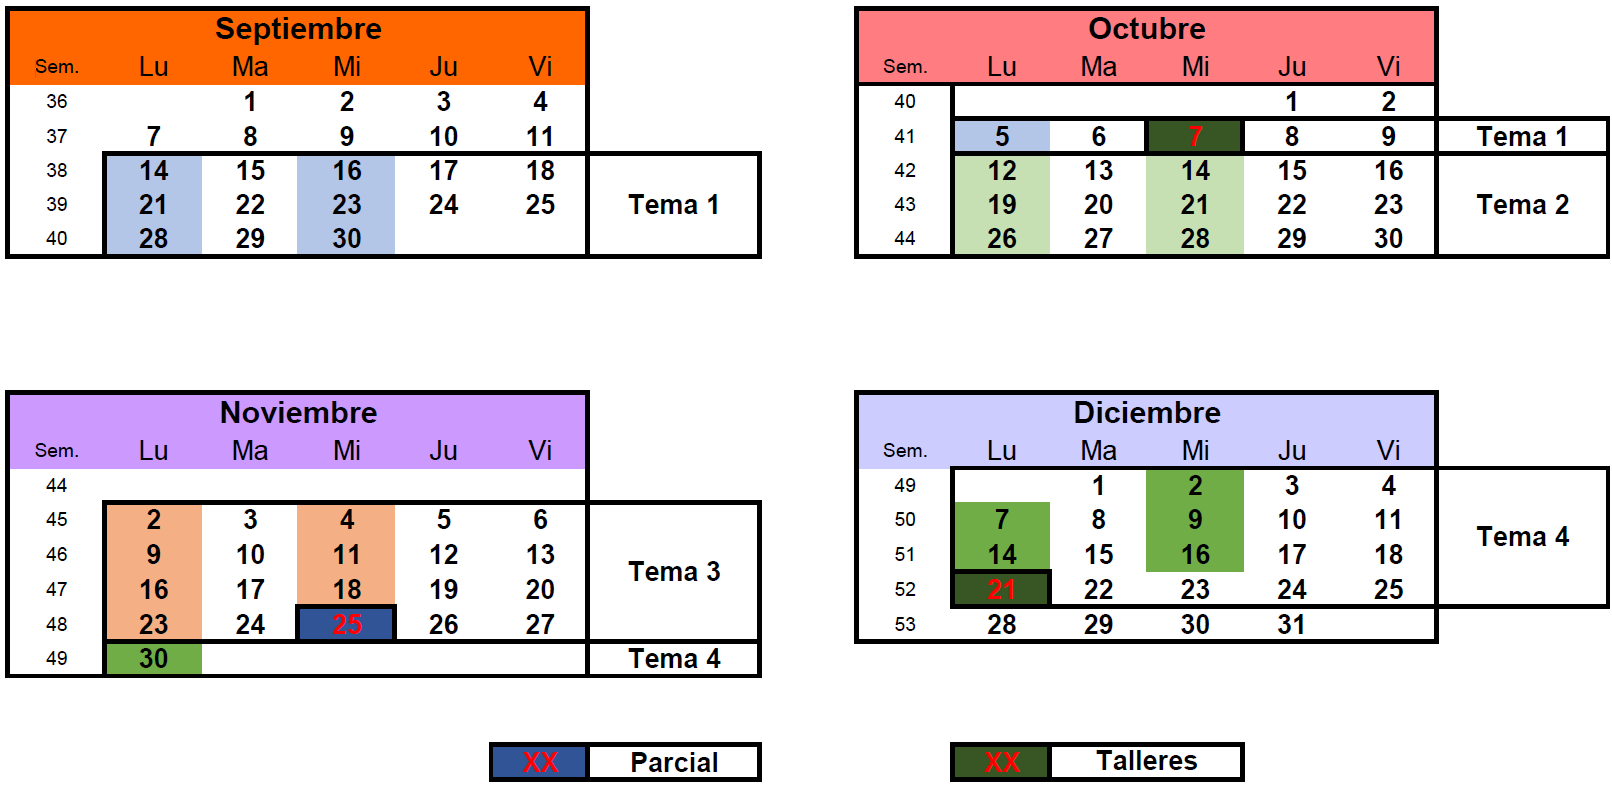
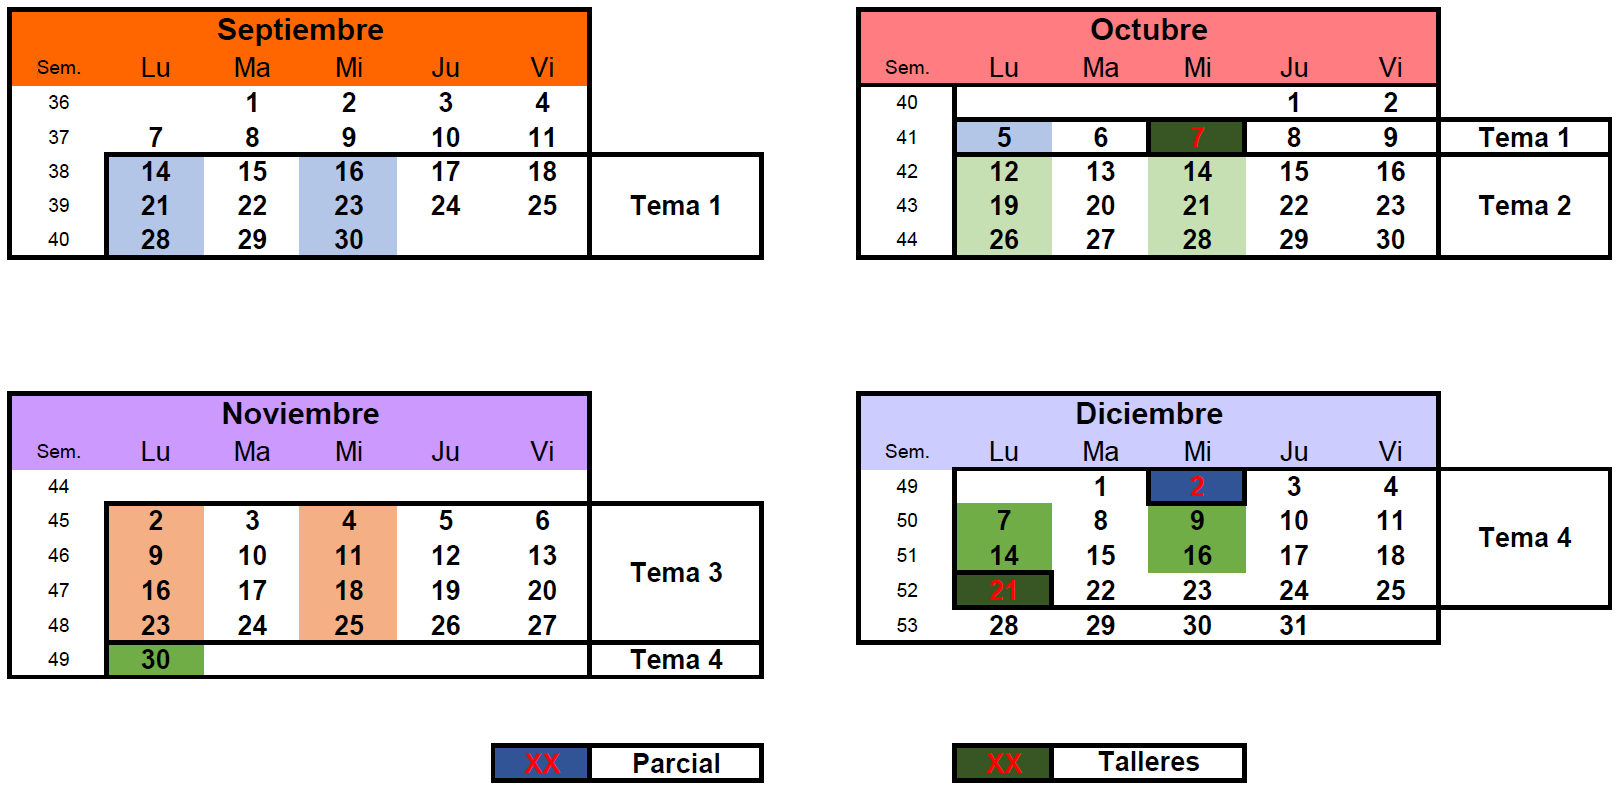
Built site for gh-pages

diff --git a/es/contenido/tema1.html b/es/contenido/tema1.html
@@ -2371,6 +2371,7 @@ mail.uib.es:25: 4 fallos de 20</code></pre>
 </section>
 <section id="avisar-y-almacenar-notificador-y-repositorioresultados" class="level4">
 <h4 class="anchored" data-anchor-id="avisar-y-almacenar-notificador-y-repositorioresultados"><strong>Avisar y almacenar: <code>Notificador</code> y <code>RepositorioResultados</code></strong></h4>
+<p><code>Notificador</code> es quien hace llegar la alerta a una persona. Su método no devuelve nada: notificar es un <strong>efecto</strong> sobre el mundo exterior —la consola, un servidor de correo, el móvil del cliente—, y lo único que varía de un notificador a otro es el medio. De ahí que sea <code>@FunctionalInterface</code>: el contrato es una única operación, y eso es lo que lo hace fácil de sustituir y de duplicar en una prueba.</p>
 <div class="code-copy-outer-scaffold"><div class="sourceCode" id="cb44"><pre class="sourceCode java code-with-copy"><code class="sourceCode java"><span id="cb44-1"><a href="#cb44-1" aria-hidden="true" tabindex="-1"></a><span class="co">// Notificador.java</span></span>
 <span id="cb44-2"><a href="#cb44-2" aria-hidden="true" tabindex="-1"></a><span class="kw">package</span><span class="im"> es</span><span class="op">.</span><span class="im">uib</span><span class="op">.</span><span class="im">prgava</span><span class="op">.</span><span class="im">tema1</span><span class="op">.</span><span class="im">monitor</span><span class="op">;</span></span>
 <span id="cb44-3"><a href="#cb44-3" aria-hidden="true" tabindex="-1"></a></span>
@@ -2378,6 +2379,7 @@ mail.uib.es:25: 4 fallos de 20</code></pre>
 <span id="cb44-5"><a href="#cb44-5" aria-hidden="true" tabindex="-1"></a><span class="kw">public</span> <span class="kw">interface</span> Notificador <span class="op">{</span></span>
 <span id="cb44-6"><a href="#cb44-6" aria-hidden="true" tabindex="-1"></a>    <span class="dt">void</span> <span class="fu">notificar</span><span class="op">(</span>Alerta alerta<span class="op">);</span></span>
 <span id="cb44-7"><a href="#cb44-7" aria-hidden="true" tabindex="-1"></a><span class="op">}</span></span></code></pre></div><button title="Copiar al portapapeles" class="code-copy-button"><i class="bi"></i></button></div>
+<p><code>RepositorioResultados</code> es la memoria del monitor: guarda cada resultado según se produce y <strong>devuelve el historial de un servicio</strong> cuando alguien lo pide. Es la pieza que convierte observaciones sueltas e irrepetibles en datos consultables, y sin ella la política no tendría con qué decidir, porque decidir consiste precisamente en mirar el pasado. Lo que varía aquí no es el medio sino el <strong>soporte</strong>: hoy será una lista en memoria, y en el Tema 4 una base de datos, sin que nada más del programa se entere.</p>
 <div class="code-copy-outer-scaffold"><div class="sourceCode" id="cb45"><pre class="sourceCode java code-with-copy"><code class="sourceCode java"><span id="cb45-1"><a href="#cb45-1" aria-hidden="true" tabindex="-1"></a><span class="co">// RepositorioResultados.java (primera versión; la refinaremos con el principio I)</span></span>
 <span id="cb45-2"><a href="#cb45-2" aria-hidden="true" tabindex="-1"></a><span class="kw">package</span><span class="im"> es</span><span class="op">.</span><span class="im">uib</span><span class="op">.</span><span class="im">prgava</span><span class="op">.</span><span class="im">tema1</span><span class="op">.</span><span class="im">monitor</span><span class="op">;</span></span>
 <span id="cb45-3"><a href="#cb45-3" aria-hidden="true" tabindex="-1"></a></span>
@@ -2458,7 +2460,7 @@ Error Frecuente&nbsp;4: La clase que lo sabe todo
 <p>Las entidades de software deben estar abiertas a la extensión pero cerradas a la modificación.</p>
 </blockquote>
 <p>Formulado por Meyer <span class="citation" data-cites="meyer1997">(<a href="#ref-meyer1997" role="doc-biblioref">Meyer 1997</a>)</span>, suena contradictorio hasta que se entiende el mecanismo: se consigue con <strong>abstracción y polimorfismo</strong>. Si <code>Monitor</code> depende de la interfaz <code>PoliticaDeAlerta</code>, puedes extender el sistema con políticas nuevas (abierto a extensión) sin tocar <code>Monitor</code> (cerrado a modificación).</p>
-<p>El ejemplo canónico de violación es la cadena de <code>if</code> sobre el tipo:</p>
+<p>El ejemplo canónico de violación de este principio es la cadena de <code>if</code> sobre el tipo:</p>
 <div class="code-copy-outer-scaffold"><div class="sourceCode" id="cb48"><pre class="sourceCode java code-with-copy"><code class="sourceCode java"><span id="cb48-1"><a href="#cb48-1" aria-hidden="true" tabindex="-1"></a><span class="co">// Fragmento: cerrado a la extensión</span></span>
 <span id="cb48-2"><a href="#cb48-2" aria-hidden="true" tabindex="-1"></a><span class="dt">static</span> <span class="dt">double</span> <span class="fu">area</span><span class="op">(</span><span class="bu">Object</span> figura<span class="op">)</span> <span class="op">{</span></span>
 <span id="cb48-3"><a href="#cb48-3" aria-hidden="true" tabindex="-1"></a>    <span class="cf">if</span> <span class="op">(</span>figura <span class="kw">instanceof</span> Circulo c<span class="op">)</span> <span class="cf">return</span> <span class="bu">Math</span><span class="op">.</span><span class="fu">PI</span> <span class="op">*</span> c<span class="op">.</span><span class="fu">radio</span><span class="op">()</span> <span class="op">*</span> c<span class="op">.</span><span class="fu">radio</span><span class="op">();</span></span>
@@ -2469,7 +2471,8 @@ Error Frecuente&nbsp;4: La clase que lo sabe todo
 </section>
 <section id="diferentes-políticas-de-alerta-en-monitor" class="level4">
 <h4 class="anchored" data-anchor-id="diferentes-políticas-de-alerta-en-monitor"><strong>Diferentes políticas de alerta en <code>Monitor</code></strong></h4>
-<p>En el monitor (<a href="#nte-ejemplo-unificador" class="quarto-xref">ejemplo&nbsp;1</a>) las políticas de alerta son el caso perfecto. Tres implementaciones de políticas de alerta en las clases <code>FalloSimple</code>, <code>FallosConsecutivos</code> y <code>LatenciaExcesiva</code> a continuación:</p>
+<p>En el monitor (<a href="#nte-ejemplo-unificador" class="quarto-xref">ejemplo&nbsp;1</a>) las políticas de alerta son el caso perfecto. Tenemos tres implementaciones de políticas de alerta en las clases <code>FalloSimple</code>, <code>FallosConsecutivos</code> y <code>LatenciaExcesiva</code> a continuación.</p>
+<p><strong><code>FalloSimple</code></strong> — La política más literal: avisa si la <strong>última</strong> comprobación fue un fallo. No mira hacia atrás ni guarda nada; le basta con el final de la lista. Es la que el COO descartó en el encargo —«no quiero un aviso por cada fallo suelto»—, y está aquí por dos motivos: sirve de punto de comparación, y en las pruebas es la que permite provocar una alerta con un solo resultado.</p>
 <div class="code-copy-outer-scaffold"><div class="sourceCode" id="cb49"><pre class="sourceCode java code-with-copy"><code class="sourceCode java"><span id="cb49-1"><a href="#cb49-1" aria-hidden="true" tabindex="-1"></a><span class="co">// FalloSimple.java</span></span>
 <span id="cb49-2"><a href="#cb49-2" aria-hidden="true" tabindex="-1"></a><span class="kw">package</span><span class="im"> es</span><span class="op">.</span><span class="im">uib</span><span class="op">.</span><span class="im">prgava</span><span class="op">.</span><span class="im">tema1</span><span class="op">.</span><span class="im">monitor</span><span class="op">;</span></span>
 <span id="cb49-3"><a href="#cb49-3" aria-hidden="true" tabindex="-1"></a></span>
@@ -2484,6 +2487,7 @@ Error Frecuente&nbsp;4: La clase que lo sabe todo
 <span id="cb49-12"><a href="#cb49-12" aria-hidden="true" tabindex="-1"></a>    <span class="at">@Override</span></span>
 <span id="cb49-13"><a href="#cb49-13" aria-hidden="true" tabindex="-1"></a>    <span class="kw">public</span> <span class="bu">String</span> <span class="fu">toString</span><span class="op">()</span> <span class="op">{</span> <span class="cf">return</span> <span class="st">"fallo simple"</span><span class="op">;</span> <span class="op">}</span></span>
 <span id="cb49-14"><a href="#cb49-14" aria-hidden="true" tabindex="-1"></a><span class="op">}</span></span></code></pre></div><button title="Copiar al portapapeles" class="code-copy-button"><i class="bi"></i></button></div>
+<p><strong><code>FallosConsecutivos</code></strong> — La que responde al encargo: avisa cuando los <code>minimo</code> últimos resultados son todos fallo. El número se fija al construirla, así que «dos fallos seguidos» y «tres fallos seguidos» no son dos clases sino dos objetos de la misma; pasar de una a otra no exige escribir código, solo cambiar la línea que la construye. Fíjate en el bucle: recorre hacia atrás y un solo resultado correcto rompe la racha y decide la respuesta. Y fíjate también en el <code>if</code> inicial, que responde <code>false</code> mientras no haya bastantes datos: así el monitor puede preguntar desde la primera ronda sin tener que saber cuántas hacen falta.</p>
 <div class="code-copy-outer-scaffold"><div class="sourceCode" id="cb50"><pre class="sourceCode java code-with-copy"><code class="sourceCode java"><span id="cb50-1"><a href="#cb50-1" aria-hidden="true" tabindex="-1"></a><span class="co">// FallosConsecutivos.java</span></span>
 <span id="cb50-2"><a href="#cb50-2" aria-hidden="true" tabindex="-1"></a><span class="kw">package</span><span class="im"> es</span><span class="op">.</span><span class="im">uib</span><span class="op">.</span><span class="im">prgava</span><span class="op">.</span><span class="im">tema1</span><span class="op">.</span><span class="im">monitor</span><span class="op">;</span></span>
 <span id="cb50-3"><a href="#cb50-3" aria-hidden="true" tabindex="-1"></a></span>
@@ -2509,6 +2513,7 @@ Error Frecuente&nbsp;4: La clase que lo sabe todo
 <span id="cb50-23"><a href="#cb50-23" aria-hidden="true" tabindex="-1"></a>    <span class="at">@Override</span></span>
 <span id="cb50-24"><a href="#cb50-24" aria-hidden="true" tabindex="-1"></a>    <span class="kw">public</span> <span class="bu">String</span> <span class="fu">toString</span><span class="op">()</span> <span class="op">{</span> <span class="cf">return</span> minimo <span class="op">+</span> <span class="st">" fallos consecutivos"</span><span class="op">;</span> <span class="op">}</span></span>
 <span id="cb50-25"><a href="#cb50-25" aria-hidden="true" tabindex="-1"></a><span class="op">}</span></span></code></pre></div><button title="Copiar al portapapeles" class="code-copy-button"><i class="bi"></i></button></div>
+<p><strong><code>LatenciaExcesiva</code></strong> — La tercera cambia de eje: aquí el fallo no es que el servicio no responda, sino que responda <strong>mal</strong>. Promedia la latencia de las últimas <code>muestras</code> comprobaciones y avisa si supera el umbral. Un servicio que atiende todas las peticiones pero tarda tres segundos no produce ni un solo <code>CAIDO</code>, y las dos políticas anteriores lo dan por sano; esta lo detecta. Observa que descarta los fallos antes de promediar: un <code>CAIDO</code> guarda latencia cero, y contarla hundiría la media hasta hacer invisible justo la degradación que se busca.</p>
 <div class="code-copy-outer-scaffold"><div class="sourceCode" id="cb51"><pre class="sourceCode java code-with-copy"><code class="sourceCode java"><span id="cb51-1"><a href="#cb51-1" aria-hidden="true" tabindex="-1"></a><span class="co">// LatenciaExcesiva.java</span></span>
 <span id="cb51-2"><a href="#cb51-2" aria-hidden="true" tabindex="-1"></a><span class="kw">package</span><span class="im"> es</span><span class="op">.</span><span class="im">uib</span><span class="op">.</span><span class="im">prgava</span><span class="op">.</span><span class="im">tema1</span><span class="op">.</span><span class="im">monitor</span><span class="op">;</span></span>
 <span id="cb51-3"><a href="#cb51-3" aria-hidden="true" tabindex="-1"></a></span>
@@ -2542,7 +2547,8 @@ Error Frecuente&nbsp;4: La clase que lo sabe todo
 <span id="cb51-31"><a href="#cb51-31" aria-hidden="true" tabindex="-1"></a>    <span class="at">@Override</span></span>
 <span id="cb51-32"><a href="#cb51-32" aria-hidden="true" tabindex="-1"></a>    <span class="kw">public</span> <span class="bu">String</span> <span class="fu">toString</span><span class="op">()</span> <span class="op">{</span> <span class="cf">return</span> <span class="st">"latencia media &gt; "</span> <span class="op">+</span> umbral<span class="op">.</span><span class="fu">toMillis</span><span class="op">()</span> <span class="op">+</span> <span class="st">" ms"</span><span class="op">;</span> <span class="op">}</span></span>
 <span id="cb51-33"><a href="#cb51-33" aria-hidden="true" tabindex="-1"></a><span class="op">}</span></span></code></pre></div><button title="Copiar al portapapeles" class="code-copy-button"><i class="bi"></i></button></div>
-<p>Ninguna de las tres exige cambiar <code>Monitor</code>, y la cuarta tampoco lo exigirá. Esta estructura (una interfaz con un método y varias implementaciones intercambiables) tiene nombre propio: es el patrón <strong>Strategy</strong>, y lo formalizaremos más adelante.</p>
+<p>Las tres comparten un supuesto que conviene hacer explícito: la lista que reciben es el historial de <strong>un solo servicio</strong>, ordenado de lo más antiguo a lo más reciente. Ninguna la filtra, porque de eso se encarga el repositorio al devolverla; por eso <code>FallosConsecutivos</code> puede mirar directamente las últimas entradas y <code>LatenciaExcesiva</code> promediar sin preguntar de quién es cada resultado.</p>
+<p>Ninguna de las tres exige cambiar <code>Monitor</code>, y la cuarta que se nos ocurra crear tampoco lo exigirá. Esta estructura (una interfaz con un método y varias implementaciones intercambiables) tiene nombre propio: es el patrón <strong>Strategy</strong>, y lo formalizaremos más adelante.</p>
 <div class="ampliacion">
 <div id="tip-problema-de-la-expresion" class="callout callout-style-default callout-tip no-icon callout-titled" title="Abierto/cerrado y polimorfismo: el problema de la expresión">
 <div class="callout-header d-flex align-content-center">
@@ -2617,7 +2623,8 @@ Error Frecuente&nbsp;5: Redefinir un método para que lance una excepción
 </blockquote>
 <p>Una interfaz grande acopla a todos sus clientes con todos sus métodos: si cambia un método que un cliente no usa, ese cliente puede verse obligado a recompilar, y cualquier implementación nueva debe implementar métodos que no tienen sentido para ella. El remedio es dividir las interfaces por <strong>rol</strong>, según lo que cada cliente necesita.</p>
 <p>Ejemplo breve: una interfaz <code>Impresora</code> con <code>imprimir</code>, <code>escanear</code> y <code>enviarFax</code> obliga a una impresora básica a «implementar» el fax lanzando excepciones (violación de L). Tres interfaces (<code>Impresora</code>, <code>Escaner</code>, <code>Fax</code>) permiten que cada dispositivo implemente solo las que cumple y que un cliente que solo imprime dependa solo de <code>Impresora</code>.</p>
-<p>En el monitor (<a href="#nte-ejemplo-unificador" class="quarto-xref">ejemplo&nbsp;1</a>) el repositorio tiene dos clientes con necesidades distintas: <code>Monitor</code> guarda y consulta el historial reciente; el generador de informes que escribiremos en 1.3 solo lee. Y en el Tema 4 querremos una implementación sobre base de datos donde la escritura y la lectura pueden tener distintos requisitos. Separamos los roles:</p>
+<p>En el monitor (<a href="#nte-ejemplo-unificador" class="quarto-xref">ejemplo&nbsp;1</a>) el repositorio tiene dos clientes con necesidades distintas: <code>Monitor</code> guarda y consulta el historial reciente; el generador de informes que escribiremos en 1.3 solo lee. Y en el Tema 4 querremos una implementación sobre base de datos donde la escritura y la lectura pueden tener distintos requisitos. Separamos los roles.</p>
+<p><strong><code>LectorResultados</code></strong> — El rol de <strong>consulta</strong>: el historial de un servicio y la lista de servicios de los que se sabe algo. Es todo lo que necesitan las políticas de alerta para decidir y el generador de informes para calcular, y ninguno de los dos guarda nada. Fíjate en que <code>historial</code> entrega los <strong>resultados de un solo servicio ya filtrados y en orden</strong>: es la firma que permite que las políticas se escriban sin buscar ni descartar nada. Aquí se emplea la interfaz <a href="https://docs.oracle.com/en/java/javase/25/docs/api/java.base/java/util/Set.html"><code>Set</code></a> del paquete <code>java.util</code> de Java, que representa un <strong>conjunto</strong>: elementos sin repetir y sin orden garantizado.</p>
 <div class="code-copy-outer-scaffold"><div class="sourceCode" id="cb54"><pre class="sourceCode java code-with-copy"><code class="sourceCode java"><span id="cb54-1"><a href="#cb54-1" aria-hidden="true" tabindex="-1"></a><span class="co">// LectorResultados.java</span></span>
 <span id="cb54-2"><a href="#cb54-2" aria-hidden="true" tabindex="-1"></a><span class="kw">package</span><span class="im"> es</span><span class="op">.</span><span class="im">uib</span><span class="op">.</span><span class="im">prgava</span><span class="op">.</span><span class="im">tema1</span><span class="op">.</span><span class="im">monitor</span><span class="op">;</span></span>
 <span id="cb54-3"><a href="#cb54-3" aria-hidden="true" tabindex="-1"></a></span>
@@ -2631,6 +2638,7 @@ Error Frecuente&nbsp;5: Redefinir un método para que lance una excepción
 <span id="cb54-11"><a href="#cb54-11" aria-hidden="true" tabindex="-1"></a>    <span class="co">/**</span> Servicios con al menos un resultado registrado<span class="co">. */</span></span>
 <span id="cb54-12"><a href="#cb54-12" aria-hidden="true" tabindex="-1"></a>    <span class="bu">Set</span><span class="op">&lt;</span>Servicio<span class="op">&gt;</span> <span class="fu">servicios</span><span class="op">();</span></span>
 <span id="cb54-13"><a href="#cb54-13" aria-hidden="true" tabindex="-1"></a><span class="op">}</span></span></code></pre></div><button title="Copiar al portapapeles" class="code-copy-button"><i class="bi"></i></button></div>
+<p><strong><code>EscritorResultados</code></strong> — El rol de <strong>registro</strong>, y consta de una sola operación: anotar un resultado recién observado. Eso es lo único que <code>Monitor</code> hace con el repositorio mientras sondea, y por ser un único método puede declararse <code>@FunctionalInterface</code> (cosa que la interfaz conjunta, con más de un método, no podía).</p>
 <div class="code-copy-outer-scaffold"><div class="sourceCode" id="cb55"><pre class="sourceCode java code-with-copy"><code class="sourceCode java"><span id="cb55-1"><a href="#cb55-1" aria-hidden="true" tabindex="-1"></a><span class="co">// EscritorResultados.java</span></span>
 <span id="cb55-2"><a href="#cb55-2" aria-hidden="true" tabindex="-1"></a><span class="kw">package</span><span class="im"> es</span><span class="op">.</span><span class="im">uib</span><span class="op">.</span><span class="im">prgava</span><span class="op">.</span><span class="im">tema1</span><span class="op">.</span><span class="im">monitor</span><span class="op">;</span></span>
 <span id="cb55-3"><a href="#cb55-3" aria-hidden="true" tabindex="-1"></a></span>
@@ -2638,13 +2646,13 @@ Error Frecuente&nbsp;5: Redefinir un método para que lance una excepción
 <span id="cb55-5"><a href="#cb55-5" aria-hidden="true" tabindex="-1"></a><span class="kw">public</span> <span class="kw">interface</span> EscritorResultados <span class="op">{</span></span>
 <span id="cb55-6"><a href="#cb55-6" aria-hidden="true" tabindex="-1"></a>    <span class="dt">void</span> <span class="fu">guardar</span><span class="op">(</span>Resultado resultado<span class="op">);</span></span>
 <span id="cb55-7"><a href="#cb55-7" aria-hidden="true" tabindex="-1"></a><span class="op">}</span></span></code></pre></div><button title="Copiar al portapapeles" class="code-copy-button"><i class="bi"></i></button></div>
+<p><strong><code>RepositorioResultados</code></strong> — No añade nada: es el nombre de quien cumple <strong>los dos</strong> roles a la vez, y la forma de dárselo a quien los necesita juntos (como <code>Monitor</code>) sin obligar a otros a cargar con ambos. Una interfaz puede heredar de varias, así que basta declararla como la suma de las otras dos y dejar el cuerpo vacío. Las implementaciones que ya existían no cambian ni una línea: la que implementaba el repositorio entero sigue cumpliéndolo, porque cumplir la suma es cumplir cada parte.</p>
 <div class="code-copy-outer-scaffold"><div class="sourceCode" id="cb56"><pre class="sourceCode java code-with-copy"><code class="sourceCode java"><span id="cb56-1"><a href="#cb56-1" aria-hidden="true" tabindex="-1"></a><span class="co">// RepositorioResultados.java</span></span>
 <span id="cb56-2"><a href="#cb56-2" aria-hidden="true" tabindex="-1"></a><span class="kw">package</span><span class="im"> es</span><span class="op">.</span><span class="im">uib</span><span class="op">.</span><span class="im">prgava</span><span class="op">.</span><span class="im">tema1</span><span class="op">.</span><span class="im">monitor</span><span class="op">;</span></span>
 <span id="cb56-3"><a href="#cb56-3" aria-hidden="true" tabindex="-1"></a></span>
 <span id="cb56-4"><a href="#cb56-4" aria-hidden="true" tabindex="-1"></a><span class="kw">public</span> <span class="kw">interface</span> RepositorioResultados <span class="kw">extends</span> LectorResultados<span class="op">,</span> EscritorResultados <span class="op">{</span> <span class="op">}</span></span></code></pre></div><button title="Copiar al portapapeles" class="code-copy-button"><i class="bi"></i></button></div>
-<p>La interfaz <code>RepositorioResultados</code> reúne ambos roles para quien necesite los dos (como <code>Monitor</code>), pero el generador de informes dependerá solo de <code>LectorResultados</code>.</p>
-<p>La implementación guarda todos los resultados en una única lista, en el orden en que llegan, y filtra por servicio cuando se lo piden. Aparece de paso la segunda colección básica del curso: el tipo <code>Set&lt;Servicio&gt;</code> es un <strong>conjunto</strong>, elementos sin repetir y sin orden garantizado, que es el tipo adecuado para «qué servicios hay», donde preguntar por el tercero no significa nada. Un <code>LinkedHashSet</code> es un conjunto que además recuerda el orden de inserción, de modo que la respuesta no cambie de una ejecución a otra. Que un servicio ya visto no se cuente dos veces depende de su <code>equals</code> y su <code>hashCode</code> (<a href="#imp-identidad-vs-igualdad" class="quarto-xref">concepto clave&nbsp;5</a>): por eso los servicios son registros, que los traen escritos.</p>
-<p>Una implementación en memoria, suficiente para este tema:</p>
+<p>Una implementación de <code>RepositorioResultados</code> guarda todos los resultados en una única lista, en el orden en que llegan, y filtra por servicio cuando se lo piden. A continuación una implementación en memoria con nombre <code>RepositorioEnMemoria</code>, suficiente para este tema. «En memoria» quiere decir que los datos viven en el montículo (<em>heap</em>) de la máquina virtual mientras el programa se ejecuta y desaparecen al terminar: el historial no sobrevive a un reinicio</p>
+<p>En <code>RepositorioEnMemoria</code> aparece de paso la segunda colección básica del curso con una implementación concreta: el tipo <code>Set&lt;Servicio&gt;</code> (introducido en <code>LectorResultados</code>) es el tipo adecuado para «¿qué servicios hay?». Un <code>LinkedHashSet</code> es una de las implementaciones de la interfaz <code>Set</code> en Java que proporciona un conjunto que además recuerda el orden de inserción, de modo que la respuesta no cambie de una ejecución a otra. Que un servicio ya visto no se cuente dos veces depende de su <code>equals</code> y su <code>hashCode</code> (<a href="#imp-identidad-vs-igualdad" class="quarto-xref">concepto clave&nbsp;5</a>): por eso los servicios son registros, que los traen escritos.</p>
 <div class="code-copy-outer-scaffold"><div class="sourceCode" id="cb57"><pre class="sourceCode java code-with-copy"><code class="sourceCode java"><span id="cb57-1"><a href="#cb57-1" aria-hidden="true" tabindex="-1"></a><span class="co">// RepositorioEnMemoria.java</span></span>
 <span id="cb57-2"><a href="#cb57-2" aria-hidden="true" tabindex="-1"></a><span class="kw">package</span><span class="im"> es</span><span class="op">.</span><span class="im">uib</span><span class="op">.</span><span class="im">prgava</span><span class="op">.</span><span class="im">tema1</span><span class="op">.</span><span class="im">monitor</span><span class="op">;</span></span>
 <span id="cb57-3"><a href="#cb57-3" aria-hidden="true" tabindex="-1"></a></span>
